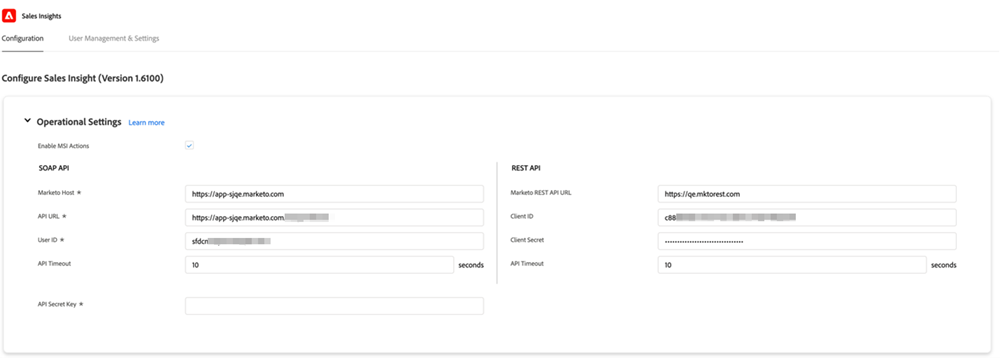
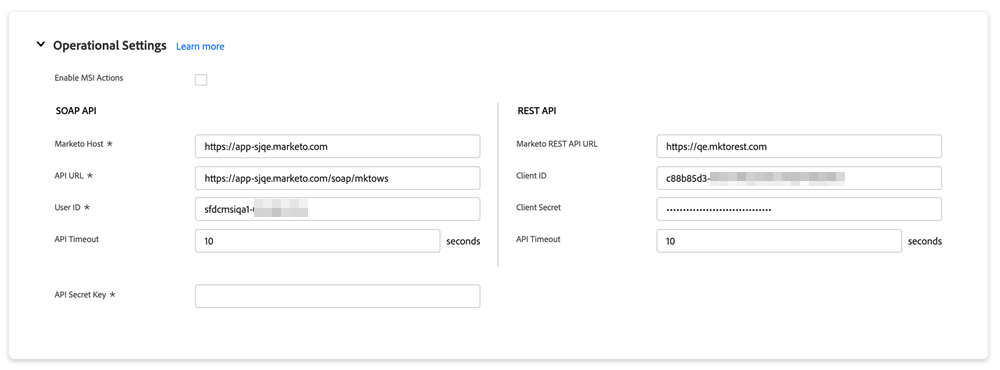
one doc

diff --git a/help/marketo/product-docs/marketo-sales-insight/msi-for-salesforce/configuration/marketo-sales-insight-configuration-tab-in-salesforce.md b/help/marketo/product-docs/marketo-sales-insight/msi-for-salesforce/configuration/marketo-sales-insight-configuration-tab-in-salesforce.md
@@ -62,6 +62,10 @@ Choosing to do so will wipe all your configurations in SFDC and they cannot be r
 
 ![](assets/marketo-sales-insight-configuration-tab-in-salesforce-5.png)
 
+>[!IMPORTANT]
+>
+>Do not select the "Enable MSI Actions" checkbox unless you’re using Sales Insights Actions features.
+
 >[!MORELIKETHIS]
 >
 >[Setting up Sales Insight for your Team](/help/marketo/product-docs/marketo-sales-insight/msi-for-salesforce/configuration/setting-up-sales-insight-for-your-team.md)
